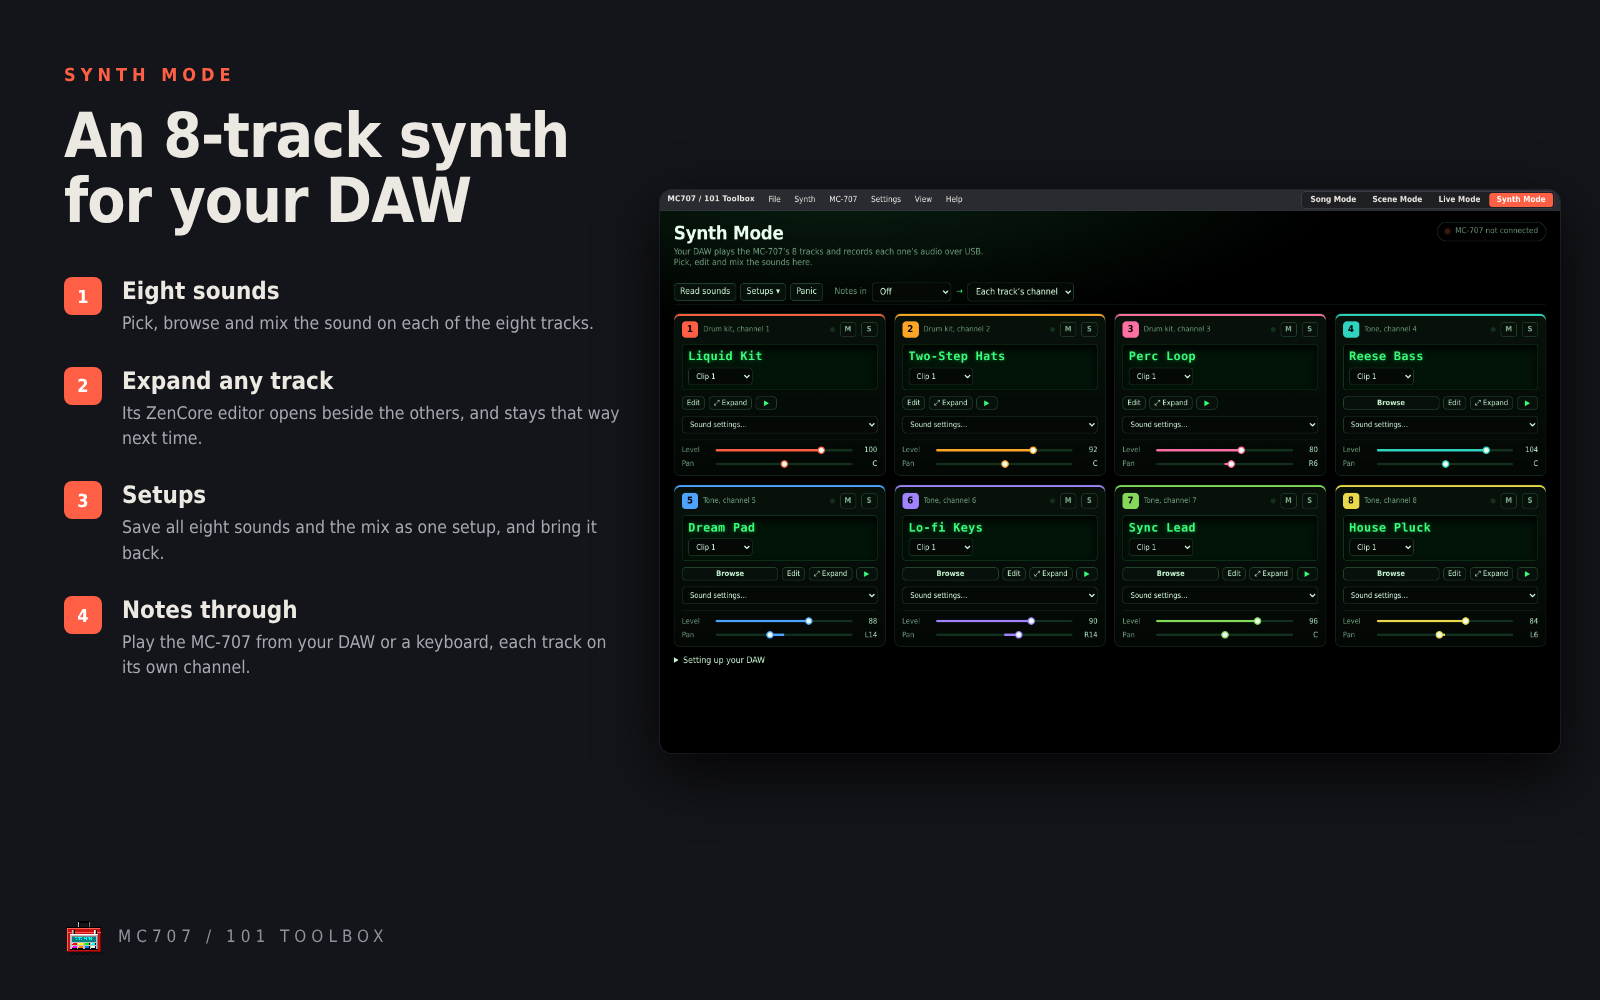
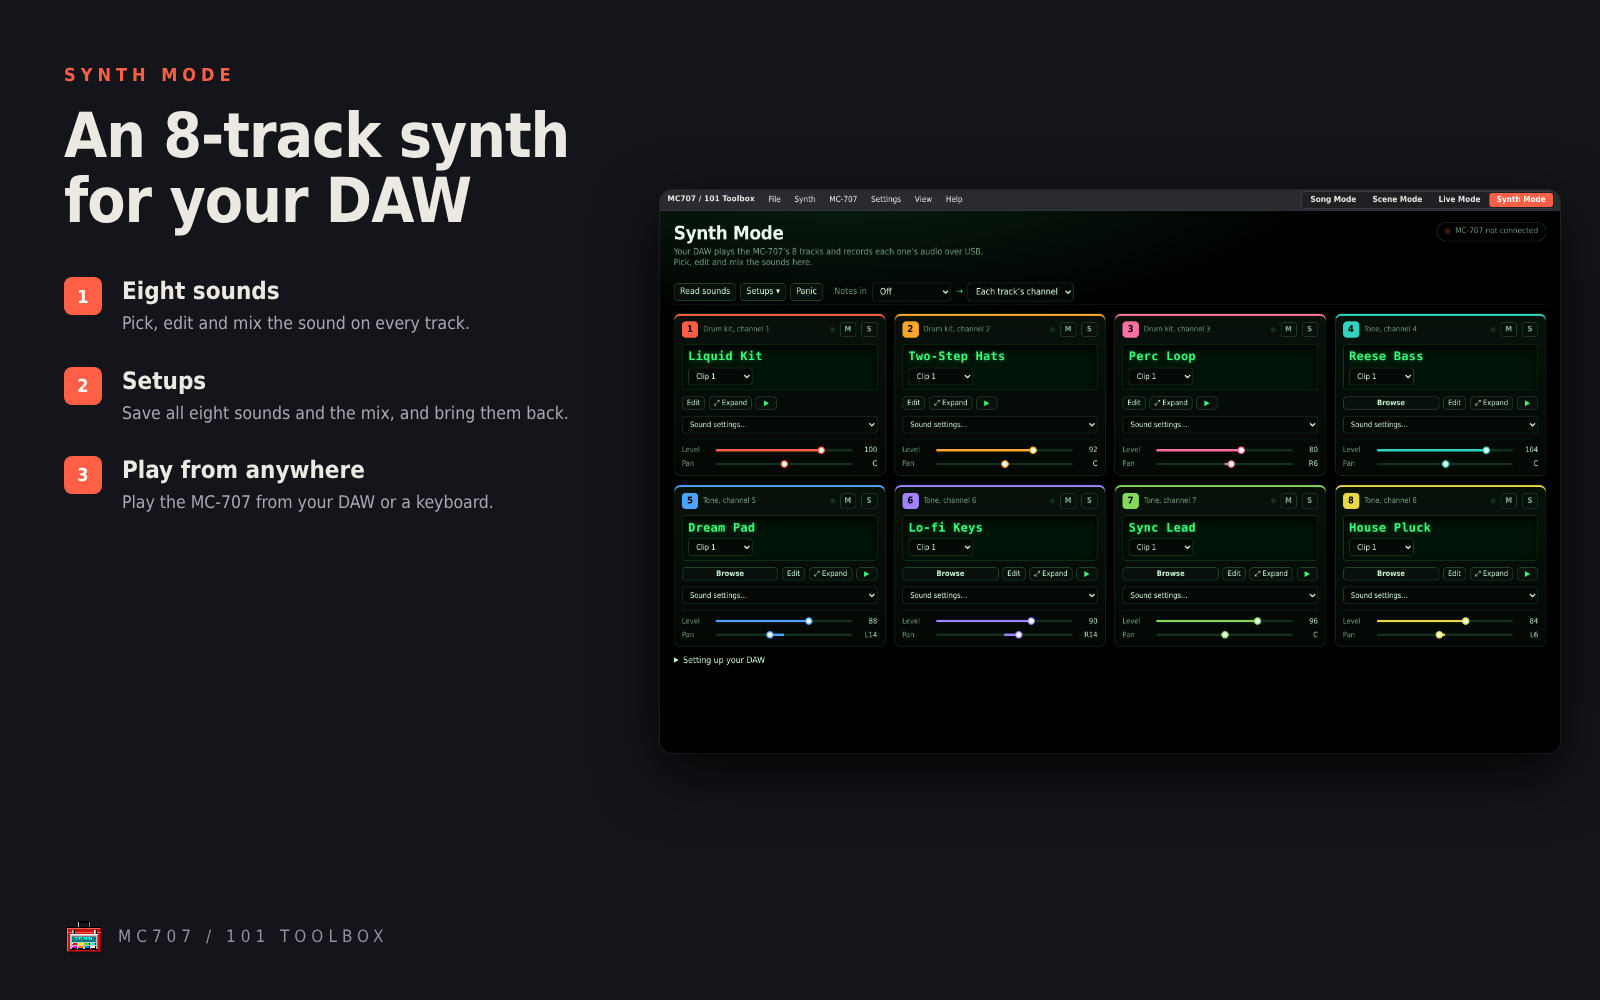
README and pictures: broad features only
Claude-Session: https://claude.ai/code/session_013JHr4DUtWBdvd7qggkPUu7

Changed region(s): [[0.0312, 0.372, 0.375, 0.558], [0.0312, 0.589, 0.375, 0.682], [0.0938, 0.31, 0.375, 0.341]]

diff --git a/README.md b/README.md
@@ -12,37 +12,37 @@ Write songs, put them on your **Roland MC-707 or MC-101**, play live sets and de
 
 ### Song Mode
 
-Make your own music and play it on the MC-707 note for note. Write your own patterns in the step grid or piano roll, record them from a keyboard or the MC-707's keys, and arrange them into a whole track on a timeline. Want a head start? Drag in any of over 28,000 patterns (drums, bass, chords, pads, arps, leads, fills and builds), or let the song wizard sketch a song in one of 42 styles with **Compose it now**, then make it yours. Record every track's audio, or export MIDI. [More](#song-mode-1)
+Make your own music: write beats, basslines, chords and melodies, arrange them into a whole track and hear it on the MC-707 as you go. A big pattern library and a song wizard are there when you want a head start, and you can record the audio or export your song. [More](#song-mode-1)
 
 ![Song Mode](docs/features/1-song-mode.png)
 
 ### Scene Mode
 
-Turn the song into MC-707 clips and a chain of scenes on a board laid out like the MC-707's own CLIP screen, then write them over USB or save an MC-707 project file with the sounds in, so the MC-707 plays it by itself with no computer. Every pattern is fitted to the MC-707's clips, and Auto-write keeps it in step as you change things. [More](#scene-mode-1)
+Arrange your song as MC-707 clips and scenes, laid out just like its own screen, and send it over USB or as a project file. The MC-707 then plays it by itself, no computer needed. [More](#scene-mode-1)
 
 ![Scene Mode](docs/features/2-scene-mode.png)
 
 ### Live Mode
 
-Play a looping set from 16 pads, laid out like the MC-707's, the whole set composed for the style you pick: scenes, swaps, fades, builds and drops that always land on the beat, breaks (unison hits, stutters, rolls, drop-outs, gate chops and half-time) and fills for every genre, riffs you record yourself with Loop rec, with an auto-pilot when you want one. [More](#live-mode-1)
+Play a live set from 16 pads: pick a style, change scenes, drop breaks and fills, and shape the sound as you go. Record your own riffs into the set, or let auto-pilot take over. [More](#live-mode-1)
 
 ![Live Mode](docs/features/3-live-mode.png)
 
 ### Synth Mode
 
-The MC-707 as an 8-track hardware synth for your DAW: pick, edit and mix the sound on each track, expand any track with its editor beside the others, and keep all eight sounds as a setup. [More](#synth-mode-1)
+Use the MC-707 as an 8-track synth for your DAW: pick, edit and mix the sound on every track, and save the whole setup. [More](#synth-mode-1)
 
 ![Synth Mode](docs/features/4-synth-mode.png)
 
 ### ZenCore editor
 
-Every setting of the sounds inside your MC-707 on a big screen: partials, filters, envelopes you can drag, LFOs, effects and drum kits, with a Sound browser for your own sounds, starters, factory tones and expansions. [More](#zencore-editor-1)
+Edit every setting of the MC-707's sounds on a big screen, and keep your own sound library alongside starters and factory tones. [More](#zencore-editor-1)
 
 ![ZenCore editor](docs/features/5-zencore-editor.png)
 
 ### Slime Lab
 
-Sound design made simple: start from a classic sound (built step by step if you like, with the reason for each step), shape it with five knobs that are the same on every sound while a scope draws it, grow variations and pick one by ear, fine-tune the real settings behind it, and save it to your sounds. [More](#slime-lab-1)
+Sound design made simple: start from a classic sound, shape it with a few easy knobs, try variations and save your favourite. [More](#slime-lab-1)
 
 ![Slime Lab](docs/features/6-slime-lab.png)
 
